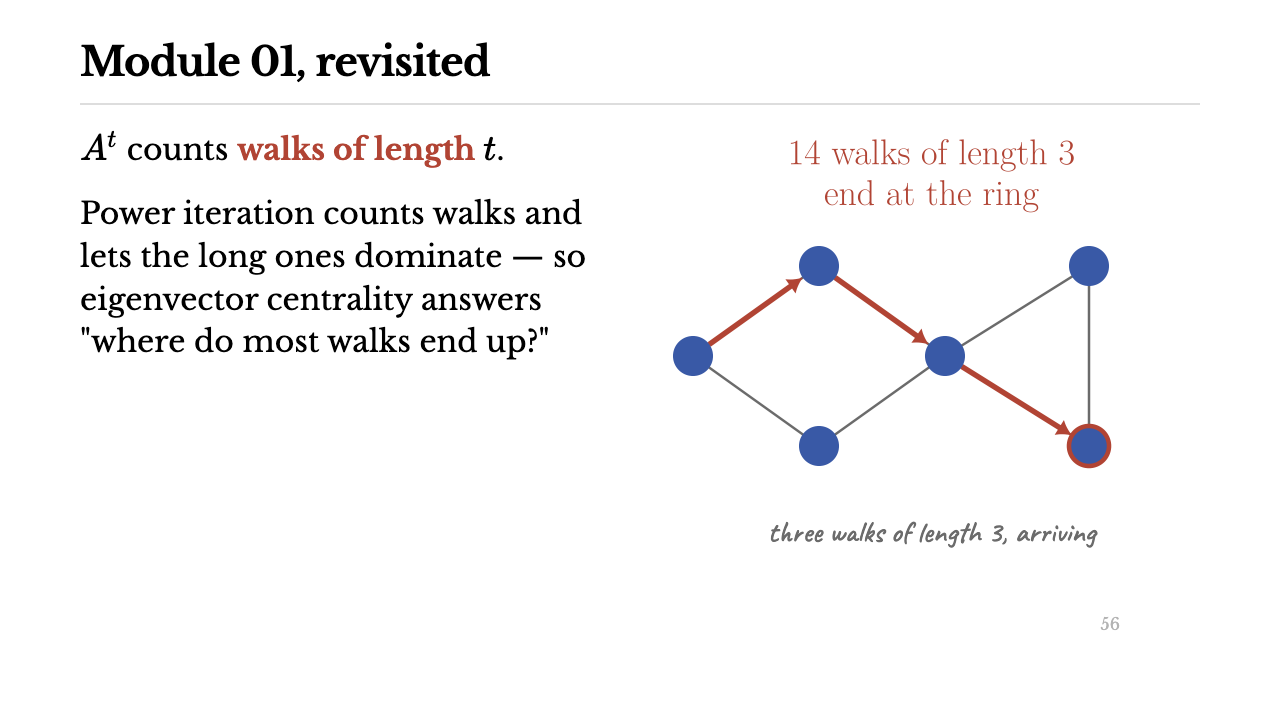
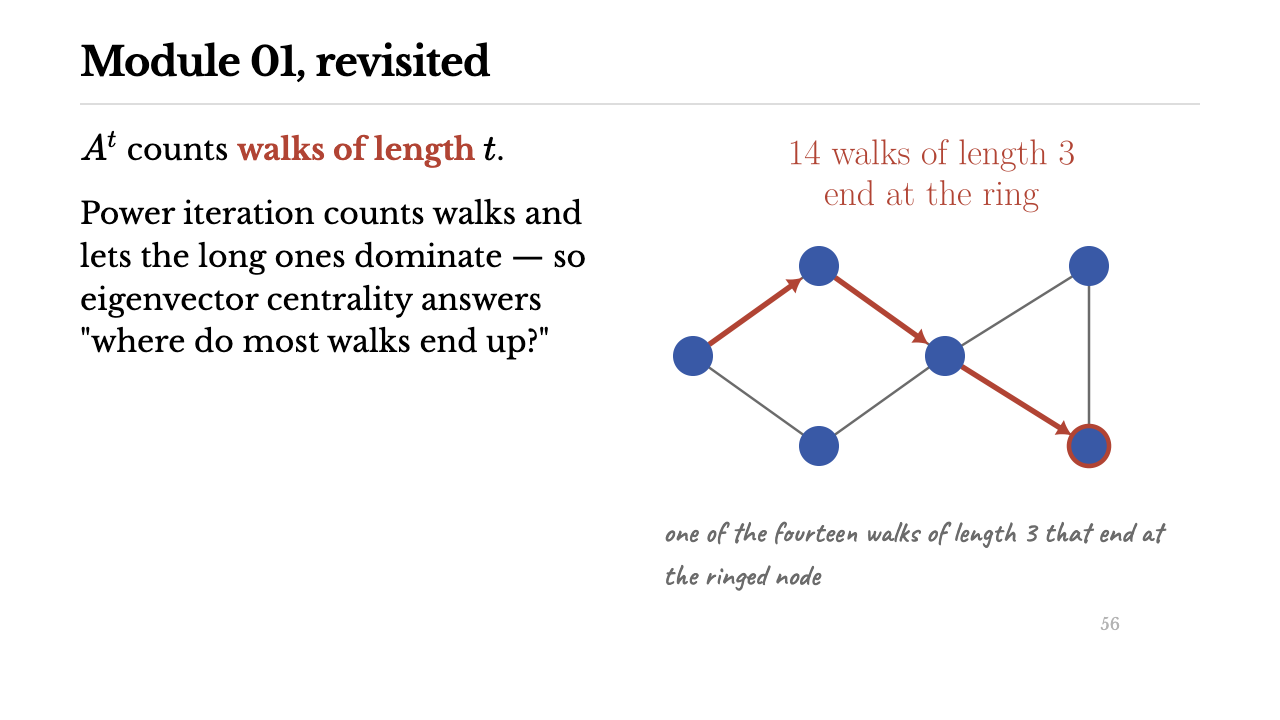
m06: the gate is green on the current render
checked 102 rendered slides / node diameter 26-52px across 398 discs / all
checks pass, exit 0.

Two slides sat exactly on the content line and crossed it or cleared it
depending on a pixel of font variance between renders — the power-iteration GIF
is the tallest figure in the deck at 398bp, and the eccentricity slide carried
two lines over a 349bp map. Both now carry one line less, with the sentence in
the notes.

Changed region(s): [[0.5, 0.7333, 0.9062, 0.7639], [0.5, 0.7944, 0.6562, 0.825]]

diff --git a/docs/slide/new/m06/m06-centrality.md b/docs/slide/new/m06/m06-centrality.md
@@ -592,7 +592,7 @@ Wait for someone to say "the worst case". That is the whole of the next slide.
 
 <hr>
 
-Score a city by its **longest** shortest path instead of its average one: $c_i = 1/\max_j d(i,j)$.
+Score a city by its **longest** shortest path, not its average one.
 
 <div class="fig tall">
 
@@ -602,7 +602,7 @@ Score a city by its **longest** shortest path instead of its average one: $c_i =
 </div>
 
 <!--
-Massilia and Mediolanum have three roads each and Rome has five, and all three reach everything in three steps. The first crack: a ruler coarse enough to tie is a ruler that cannot rank.
+The definition is one over the largest distance: c_i = 1 / max_j d(i,j). Massilia and Mediolanum have three roads each and Rome has five, and all three reach everything in three steps. The first crack: a ruler coarse enough to tie is a ruler that cannot rank.
 -->
 
 ---
@@ -991,14 +991,16 @@ That theorem is the licence to say "the" eigenvector centrality. Without it the 
 
 <hr>
 
-Everyone starts at 1. Add up your neighbours. Rescale. Repeat.
-
 <div class="fig tall">
 
 ![w:1080](figures/power-iteration.gif)
-<figcaption>no eigenvalue solver anywhere — just addition, over and over</figcaption>
+<figcaption>everyone starts at 1 — add up your neighbours, rescale, repeat</figcaption>
 
 </div>
+
+<!--
+No eigenvalue solver anywhere: just addition, over and over. Watch the crown appear at step 1 and never move.
+-->
 
 ---
 
@@ -1071,7 +1073,7 @@ Power iteration counts walks and lets the long ones dominate — so eigenvector 
 <div class="fig">
 
 ![w:537](figures/walks-arrive.png)
-<figcaption>three walks of length 3, arriving</figcaption>
+<figcaption>one of the fourteen walks of length 3 that end at the ringed node</figcaption>
 
 </div>
 </div>

diff --git a/docs/slide/new/m06/review/REVIEW_R1.md b/docs/slide/new/m06/review/REVIEW_R1.md
@@ -3,6 +3,8 @@
 **Verdict:** NEEDS WORK
 **Slides:** 102 · **Blockers:** 0 · **Majors:** 2 · **Minors:** 3
 
+*(Gate re-run after the round's fixes: `checked 102 rendered slides / node diameter 26-52px (spread 2.0x) across 398 discs / all checks pass`, exit 0.)*
+
 `check_render.py` exits 0 on the current render: 102 slides, node diameter
 26–52 px across 398 discs, no content below the frame, no container mismatch, no
 math inside a figcaption. That is the build gate, not the review.
@@ -108,5 +110,9 @@ student activity; see the open item below.
 - `hits-collapses.png` rendered byte-identical to `roma-eigenvector.png` — which
   is the theorem, not a bug. The Part 7 slide reuses the Part 5 figure and says so.
 - Two slides shared a figure with a different explanation; both now have their own.
-- A caption claimed two marked edges where the figure marks one.
+- A caption claimed two marked edges where the figure marks one; another said three
+  walks where the figure draws one of fourteen.
+- Two slides landed their caption on the frame's content line, which the render
+  crosses or clears depending on a pixel of font variance between runs. Both now
+  carry a line less.
 - The club summary marked its third student with a blue ring on a blue disc.
